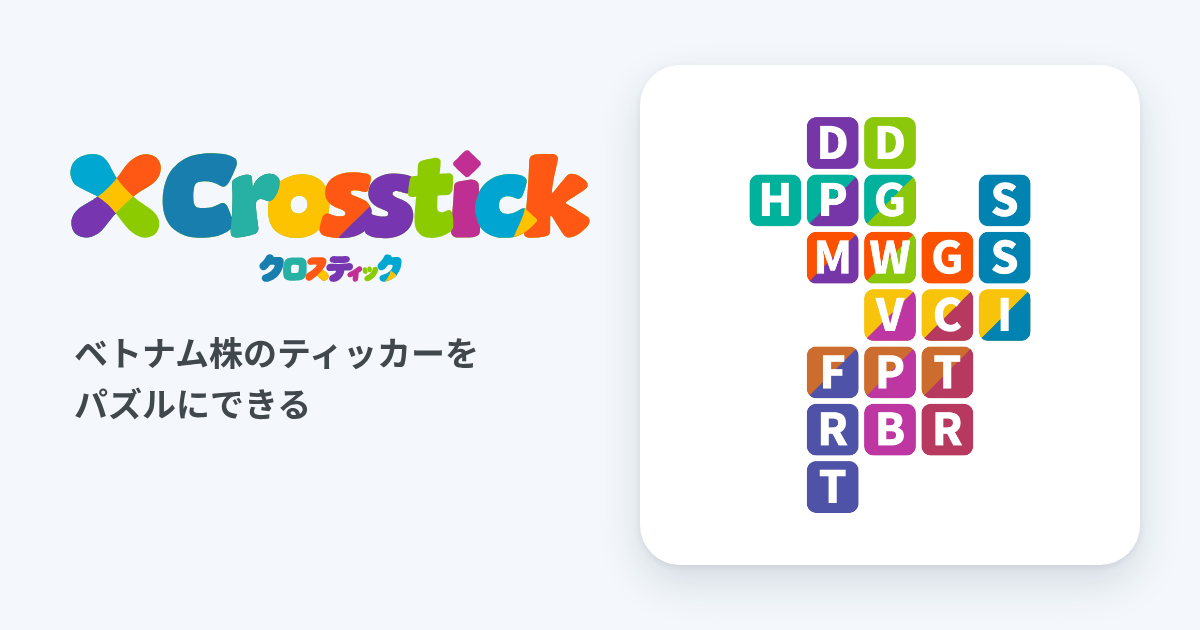
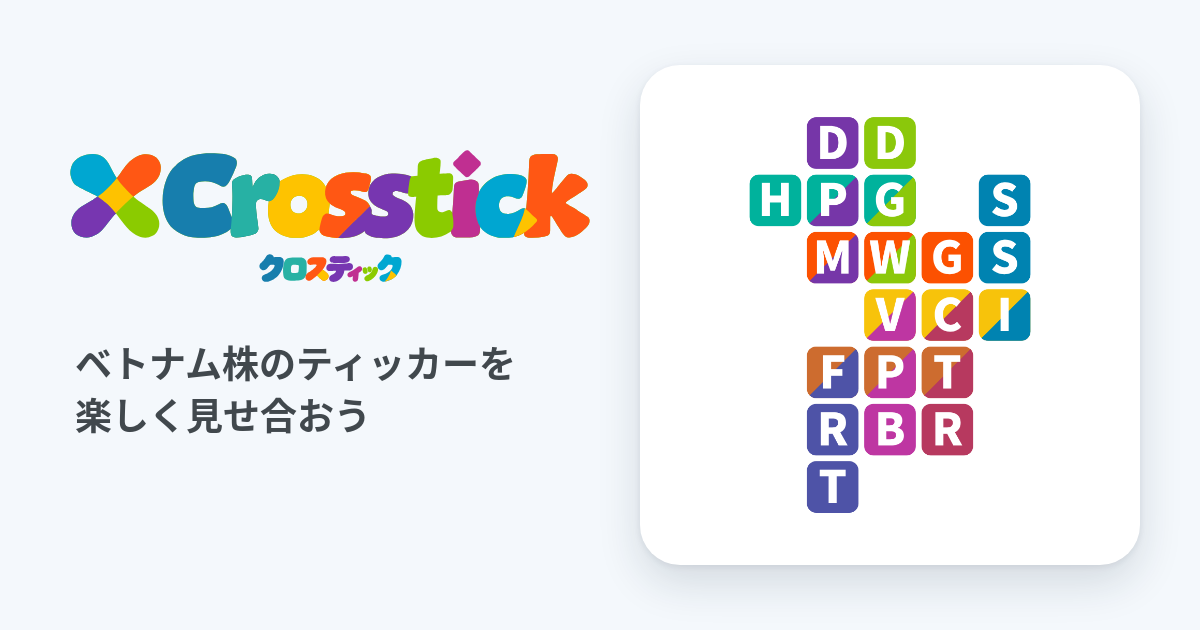
タグラインを「ベトナム株のティッカーを楽しく見せ合おう」に変更（3言語・og画像・文書）
Claude-Session: https://claude.ai/code/session_01PnqdWuW9AC89C8NV25zULK

Changed region(s): [[0.0617, 0.5429, 0.4317, 0.6937]]

diff --git a/dist/site/index.html b/dist/site/index.html
@@ -3,15 +3,15 @@
 <head>
 <meta charset="utf-8">
 <meta name="viewport" content="width=device-width, initial-scale=1, viewport-fit=cover">
-<title>Crosstick（クロスティック）｜ベトナム株のティッカーをパズルにできる</title>
-<meta name="description" content="ベトナム株（HOSE・HNX・UPCoM）のティッカーコードを、共通する文字で交差させてカラフルなパズルにするツール。重なりの多さで採点し、画像として保存できます。入力内容は端末の外へ送信しません。">
+<title>Crosstick（クロスティック）｜ベトナム株のティッカーを楽しく見せ合おう</title>
+<meta name="description" content="ベトナム株（HOSE・HNX・UPCoM）のティッカーコードを、共通する文字で交差させたカラフルな図にするツール。重なりの多さで点数も出て、画像として保存して友達と見せ合えます。入力内容は端末の外へ送信しません。">
 <meta name="color-scheme" content="light dark">
 <meta name="theme-color" content="#f4f8fc" media="(prefers-color-scheme: light)">
 <meta name="theme-color" content="#0d1215" media="(prefers-color-scheme: dark)">
 <meta property="og:type" content="website">
 <meta property="og:site_name" content="Crosstick">
-<meta property="og:title" content="Crosstick（クロスティック）｜ベトナム株のティッカーをパズルにできる">
-<meta property="og:description" content="ベトナム株（HOSE・HNX・UPCoM）のティッカーコードを、共通する文字で交差させてカラフルなパズルにするツール。重なりの多さで採点し、画像として保存できます。入力内容は端末の外へ送信しません。">
+<meta property="og:title" content="Crosstick（クロスティック）｜ベトナム株のティッカーを楽しく見せ合おう">
+<meta property="og:description" content="ベトナム株（HOSE・HNX・UPCoM）のティッカーコードを、共通する文字で交差させたカラフルな図にするツール。重なりの多さで点数も出て、画像として保存して友達と見せ合えます。入力内容は端末の外へ送信しません。">
 <meta property="og:url" content="https://crosstick.pages.dev/">
 <meta property="og:image" content="https://crosstick.pages.dev/og.png">
 <meta property="og:image:width" content="1200">
@@ -423,7 +423,7 @@ body.shoot:not(.score-on) .stage { inset: 16px 16px 90px; }
 <div class="app">
   <header>
     <h1 class="logo"><svg class="logo-svg" role="img" data-i-aria="logo" aria-label="Crosstick（クロスティック）"><use href="#cx-logo" width="100%" height="100%"/></svg></h1>
-    <p class="lead" data-i="lead">ベトナム株のティッカーをパズルにできる</p>
+    <p class="lead" data-i="lead">ベトナム株のティッカーを楽しく見せ合おう</p>
     <div class="hactions">
       <label class="btn btn-tonal langbtn">
         <svg viewBox="0 0 24 24" fill="none" stroke="currentColor" stroke-width="2.2" stroke-linecap="round" stroke-linejoin="round" aria-hidden="true"><circle cx="12" cy="12" r="9.5"/><path d="M2.5 12h19"/><path d="M12 2.5c2.6 2.6 4 5.9 4 9.5s-1.4 6.9-4 9.5c-2.6-2.6-4-5.9-4-9.5s1.4-6.9 4-9.5z"/></svg>
@@ -829,7 +829,7 @@ function buildLayout(words, pattern, clean) {
 var I18N = {
   ja: {
     logo: 'Crosstick（クロスティック）',
-    lead: 'ベトナム株のティッカーをパズルにできる',
+    lead: 'ベトナム株のティッカーを楽しく見せ合おう',
     rulesAria: '採点のしくみとプライバシー',
     saveImage: '画像を保存', saveShort: '保存',
     rulesTitle: '採点のしくみ',
@@ -847,7 +847,7 @@ var I18N = {
     tickersLabel: 'ティッカー（スペース、カンマ、改行で区切る）',
     placeholder: 'ティッカーを入力（例: SSI CTR VCI）',
     shuffle: '再配置', ratio: '比率', showScore: '点数を入れる',
-    empty: 'ティッカーを入力すると、ここにパズルができます。',
+    empty: 'ティッカーを入力すると、ここに図ができます。',
     across: '横', down: '縦', unplaced: '未配置', comma: '、',
     puzzleAria: 'Crosstick。', unit: '点',
     noScore: '共通する文字がないため、採点できません。',
@@ -861,7 +861,7 @@ var I18N = {
   },
   vi: {
     logo: 'Crosstick',
-    lead: 'Biến mã cổ phiếu Việt Nam thành trò chơi ô chữ',
+    lead: 'Cùng nhau khoe mã cổ phiếu Việt Nam thật vui',
     rulesAria: 'Cách tính điểm và quyền riêng tư',
     saveImage: 'Lưu hình ảnh', saveShort: 'Lưu',
     rulesTitle: 'Cách tính điểm',
@@ -879,7 +879,7 @@ var I18N = {
     tickersLabel: 'Mã cổ phiếu (cách nhau bằng dấu cách, dấu phẩy hoặc xuống dòng)',
     placeholder: 'Nhập mã cổ phiếu (ví dụ: SSI CTR VCI)',
     shuffle: 'Xếp lại', ratio: 'Tỉ lệ', showScore: 'Hiển thị điểm',
-    empty: 'Nhập mã cổ phiếu, ô chữ sẽ xuất hiện ở đây.',
+    empty: 'Nhập mã cổ phiếu, hình ghép sẽ xuất hiện ở đây.',
     across: 'Ngang', down: 'Dọc', unplaced: 'Chưa xếp', comma: ', ',
     puzzleAria: 'Crosstick. ', unit: 'điểm',
     noScore: 'Không có chữ cái chung nên không thể chấm điểm.',
@@ -893,7 +893,7 @@ var I18N = {
   },
   en: {
     logo: 'Crosstick',
-    lead: 'Turn Vietnamese stock tickers into a puzzle',
+    lead: 'Have fun showing off your Vietnamese stock tickers',
     rulesAria: 'Scoring and privacy',
     saveImage: 'Save image', saveShort: 'Save',
     rulesTitle: 'How scoring works',
@@ -911,7 +911,7 @@ var I18N = {
     tickersLabel: 'Tickers (separate with spaces, commas, or line breaks)',
     placeholder: 'Enter tickers (e.g. SSI CTR VCI)',
     shuffle: 'Reshuffle', ratio: 'Ratio', showScore: 'Include score',
-    empty: 'Enter tickers and your puzzle will appear here.',
+    empty: 'Enter tickers and your diagram will appear here.',
     across: 'Across', down: 'Down', unplaced: 'Unplaced', comma: ', ',
     puzzleAria: 'Crosstick. ', unit: 'pts',
     noScore: 'No shared letters, so it cannot be scored.',
@@ -1010,7 +1010,7 @@ YTC
   var reduced = window.matchMedia && window.matchMedia('(prefers-reduced-motion: reduce)').matches;
 
   /* 言語（日本語・ベトナム語・英語）。文言は i18n.js。選んだ言語は保存せず、URLの #ja / #vi / #en とブラウザの言語設定で決める */
-  var SITE_META = {"ja":{"title":"Crosstick（クロスティック）｜ベトナム株のティッカーをパズルにできる","description":"ベトナム株（HOSE・HNX・UPCoM）のティッカーコードを、共通する文字で交差させてカラフルなパズルにするツール。重なりの多さで採点し、画像として保存できます。入力内容は端末の外へ送信しません。"},"vi":{"title":"Crosstick | Biến mã cổ phiếu Việt Nam thành trò chơi ô chữ","description":"Công cụ ghép mã cổ phiếu Việt Nam (HOSE, HNX, UPCoM) thành ô chữ nhiều màu, giao nhau ở các chữ cái chung. Chấm điểm theo số chữ cái trùng nhau và lưu được thành hình ảnh. Nội dung bạn nhập không bị gửi ra khỏi thiết bị."},"en":{"title":"Crosstick | Turn Vietnamese stock tickers into a puzzle","description":"Cross Vietnamese stock tickers (HOSE, HNX, UPCoM) at their shared letters to make a colorful puzzle. It is scored by how much the tickers overlap, and you can save it as an image. Nothing you type leaves your device."}};
+  var SITE_META = {"ja":{"title":"Crosstick（クロスティック）｜ベトナム株のティッカーを楽しく見せ合おう","description":"ベトナム株（HOSE・HNX・UPCoM）のティッカーコードを、共通する文字で交差させたカラフルな図にするツール。重なりの多さで点数も出て、画像として保存して友達と見せ合えます。入力内容は端末の外へ送信しません。"},"vi":{"title":"Crosstick | Cùng nhau khoe mã cổ phiếu Việt Nam thật vui","description":"Công cụ ghép mã cổ phiếu Việt Nam (HOSE, HNX, UPCoM) thành hình nhiều màu, giao nhau ở các chữ cái chung. Có chấm điểm theo số chữ cái trùng nhau, và bạn có thể lưu thành hình ảnh để khoe với bạn bè. Nội dung bạn nhập không bị gửi ra khỏi thiết bị."},"en":{"title":"Crosstick | Have fun showing off your Vietnamese stock tickers","description":"Cross Vietnamese stock tickers (HOSE, HNX, UPCoM) at their shared letters to make a colorful diagram. It is scored by how much the tickers overlap, and you can save it as an image to show your friends. Nothing you type leaves your device."}};
   var lang = 'ja', hintInfo = { notVn: [], bad: [], over: false };
   var langSel = $('lang');
   var seo = !!document.querySelector('meta[name="description"]'); // Artifact版にはタイトル・説明のメタ情報が無い

diff --git a/dist/artifact.html b/dist/artifact.html
@@ -401,7 +401,7 @@ body.shoot:not(.score-on) .stage { inset: 16px 16px 90px; }
 <div class="app">
   <header>
     <h1 class="logo"><svg class="logo-svg" role="img" data-i-aria="logo" aria-label="Crosstick（クロスティック）"><use href="#cx-logo" width="100%" height="100%"/></svg></h1>
-    <p class="lead" data-i="lead">ベトナム株のティッカーをパズルにできる</p>
+    <p class="lead" data-i="lead">ベトナム株のティッカーを楽しく見せ合おう</p>
     <div class="hactions">
       <label class="btn btn-tonal langbtn">
         <svg viewBox="0 0 24 24" fill="none" stroke="currentColor" stroke-width="2.2" stroke-linecap="round" stroke-linejoin="round" aria-hidden="true"><circle cx="12" cy="12" r="9.5"/><path d="M2.5 12h19"/><path d="M12 2.5c2.6 2.6 4 5.9 4 9.5s-1.4 6.9-4 9.5c-2.6-2.6-4-5.9-4-9.5s1.4-6.9 4-9.5z"/></svg>
@@ -807,7 +807,7 @@ function buildLayout(words, pattern, clean) {
 var I18N = {
   ja: {
     logo: 'Crosstick（クロスティック）',
-    lead: 'ベトナム株のティッカーをパズルにできる',
+    lead: 'ベトナム株のティッカーを楽しく見せ合おう',
     rulesAria: '採点のしくみとプライバシー',
     saveImage: '画像を保存', saveShort: '保存',
     rulesTitle: '採点のしくみ',
@@ -825,7 +825,7 @@ var I18N = {
     tickersLabel: 'ティッカー（スペース、カンマ、改行で区切る）',
     placeholder: 'ティッカーを入力（例: SSI CTR VCI）',
     shuffle: '再配置', ratio: '比率', showScore: '点数を入れる',
-    empty: 'ティッカーを入力すると、ここにパズルができます。',
+    empty: 'ティッカーを入力すると、ここに図ができます。',
     across: '横', down: '縦', unplaced: '未配置', comma: '、',
     puzzleAria: 'Crosstick。', unit: '点',
     noScore: '共通する文字がないため、採点できません。',
@@ -839,7 +839,7 @@ var I18N = {
   },
   vi: {
     logo: 'Crosstick',
-    lead: 'Biến mã cổ phiếu Việt Nam thành trò chơi ô chữ',
+    lead: 'Cùng nhau khoe mã cổ phiếu Việt Nam thật vui',
     rulesAria: 'Cách tính điểm và quyền riêng tư',
     saveImage: 'Lưu hình ảnh', saveShort: 'Lưu',
     rulesTitle: 'Cách tính điểm',
@@ -857,7 +857,7 @@ var I18N = {
     tickersLabel: 'Mã cổ phiếu (cách nhau bằng dấu cách, dấu phẩy hoặc xuống dòng)',
     placeholder: 'Nhập mã cổ phiếu (ví dụ: SSI CTR VCI)',
     shuffle: 'Xếp lại', ratio: 'Tỉ lệ', showScore: 'Hiển thị điểm',
-    empty: 'Nhập mã cổ phiếu, ô chữ sẽ xuất hiện ở đây.',
+    empty: 'Nhập mã cổ phiếu, hình ghép sẽ xuất hiện ở đây.',
     across: 'Ngang', down: 'Dọc', unplaced: 'Chưa xếp', comma: ', ',
     puzzleAria: 'Crosstick. ', unit: 'điểm',
     noScore: 'Không có chữ cái chung nên không thể chấm điểm.',
@@ -871,7 +871,7 @@ var I18N = {
   },
   en: {
     logo: 'Crosstick',
-    lead: 'Turn Vietnamese stock tickers into a puzzle',
+    lead: 'Have fun showing off your Vietnamese stock tickers',
     rulesAria: 'Scoring and privacy',
     saveImage: 'Save image', saveShort: 'Save',
     rulesTitle: 'How scoring works',
@@ -889,7 +889,7 @@ var I18N = {
     tickersLabel: 'Tickers (separate with spaces, commas, or line breaks)',
     placeholder: 'Enter tickers (e.g. SSI CTR VCI)',
     shuffle: 'Reshuffle', ratio: 'Ratio', showScore: 'Include score',
-    empty: 'Enter tickers and your puzzle will appear here.',
+    empty: 'Enter tickers and your diagram will appear here.',
     across: 'Across', down: 'Down', unplaced: 'Unplaced', comma: ', ',
     puzzleAria: 'Crosstick. ', unit: 'pts',
     noScore: 'No shared letters, so it cannot be scored.',
@@ -988,7 +988,7 @@ YTC
   var reduced = window.matchMedia && window.matchMedia('(prefers-reduced-motion: reduce)').matches;
 
   /* 言語（日本語・ベトナム語・英語）。文言は i18n.js。選んだ言語は保存せず、URLの #ja / #vi / #en とブラウザの言語設定で決める */
-  var SITE_META = {"ja":{"title":"Crosstick（クロスティック）｜ベトナム株のティッカーをパズルにできる","description":"ベトナム株（HOSE・HNX・UPCoM）のティッカーコードを、共通する文字で交差させてカラフルなパズルにするツール。重なりの多さで採点し、画像として保存できます。入力内容は端末の外へ送信しません。"},"vi":{"title":"Crosstick | Biến mã cổ phiếu Việt Nam thành trò chơi ô chữ","description":"Công cụ ghép mã cổ phiếu Việt Nam (HOSE, HNX, UPCoM) thành ô chữ nhiều màu, giao nhau ở các chữ cái chung. Chấm điểm theo số chữ cái trùng nhau và lưu được thành hình ảnh. Nội dung bạn nhập không bị gửi ra khỏi thiết bị."},"en":{"title":"Crosstick | Turn Vietnamese stock tickers into a puzzle","description":"Cross Vietnamese stock tickers (HOSE, HNX, UPCoM) at their shared letters to make a colorful puzzle. It is scored by how much the tickers overlap, and you can save it as an image. Nothing you type leaves your device."}};
+  var SITE_META = {"ja":{"title":"Crosstick（クロスティック）｜ベトナム株のティッカーを楽しく見せ合おう","description":"ベトナム株（HOSE・HNX・UPCoM）のティッカーコードを、共通する文字で交差させたカラフルな図にするツール。重なりの多さで点数も出て、画像として保存して友達と見せ合えます。入力内容は端末の外へ送信しません。"},"vi":{"title":"Crosstick | Cùng nhau khoe mã cổ phiếu Việt Nam thật vui","description":"Công cụ ghép mã cổ phiếu Việt Nam (HOSE, HNX, UPCoM) thành hình nhiều màu, giao nhau ở các chữ cái chung. Có chấm điểm theo số chữ cái trùng nhau, và bạn có thể lưu thành hình ảnh để khoe với bạn bè. Nội dung bạn nhập không bị gửi ra khỏi thiết bị."},"en":{"title":"Crosstick | Have fun showing off your Vietnamese stock tickers","description":"Cross Vietnamese stock tickers (HOSE, HNX, UPCoM) at their shared letters to make a colorful diagram. It is scored by how much the tickers overlap, and you can save it as an image to show your friends. Nothing you type leaves your device."}};
   var lang = 'ja', hintInfo = { notVn: [], bad: [], over: false };
   var langSel = $('lang');
   var seo = !!document.querySelector('meta[name="description"]'); // Artifact版にはタイトル・説明のメタ情報が無い

diff --git a/src/i18n.js b/src/i18n.js
@@ -6,7 +6,7 @@
 var I18N = {
   ja: {
     logo: 'Crosstick（クロスティック）',
-    lead: 'ベトナム株のティッカーをパズルにできる',
+    lead: 'ベトナム株のティッカーを楽しく見せ合おう',
     rulesAria: '採点のしくみとプライバシー',
     saveImage: '画像を保存', saveShort: '保存',
     rulesTitle: '採点のしくみ',
@@ -24,7 +24,7 @@ var I18N = {
     tickersLabel: 'ティッカー（スペース、カンマ、改行で区切る）',
     placeholder: 'ティッカーを入力（例: SSI CTR VCI）',
     shuffle: '再配置', ratio: '比率', showScore: '点数を入れる',
-    empty: 'ティッカーを入力すると、ここにパズルができます。',
+    empty: 'ティッカーを入力すると、ここに図ができます。',
     across: '横', down: '縦', unplaced: '未配置', comma: '、',
     puzzleAria: 'Crosstick。', unit: '点',
     noScore: '共通する文字がないため、採点できません。',
@@ -38,7 +38,7 @@ var I18N = {
   },
   vi: {
     logo: 'Crosstick',
-    lead: 'Biến mã cổ phiếu Việt Nam thành trò chơi ô chữ',
+    lead: 'Cùng nhau khoe mã cổ phiếu Việt Nam thật vui',
     rulesAria: 'Cách tính điểm và quyền riêng tư',
     saveImage: 'Lưu hình ảnh', saveShort: 'Lưu',
     rulesTitle: 'Cách tính điểm',
@@ -56,7 +56,7 @@ var I18N = {
     tickersLabel: 'Mã cổ phiếu (cách nhau bằng dấu cách, dấu phẩy hoặc xuống dòng)',
     placeholder: 'Nhập mã cổ phiếu (ví dụ: SSI CTR VCI)',
     shuffle: 'Xếp lại', ratio: 'Tỉ lệ', showScore: 'Hiển thị điểm',
-    empty: 'Nhập mã cổ phiếu, ô chữ sẽ xuất hiện ở đây.',
+    empty: 'Nhập mã cổ phiếu, hình ghép sẽ xuất hiện ở đây.',
     across: 'Ngang', down: 'Dọc', unplaced: 'Chưa xếp', comma: ', ',
     puzzleAria: 'Crosstick. ', unit: 'điểm',
     noScore: 'Không có chữ cái chung nên không thể chấm điểm.',
@@ -70,7 +70,7 @@ var I18N = {
   },
   en: {
     logo: 'Crosstick',
-    lead: 'Turn Vietnamese stock tickers into a puzzle',
+    lead: 'Have fun showing off your Vietnamese stock tickers',
     rulesAria: 'Scoring and privacy',
     saveImage: 'Save image', saveShort: 'Save',
     rulesTitle: 'How scoring works',
@@ -88,7 +88,7 @@ var I18N = {
     tickersLabel: 'Tickers (separate with spaces, commas, or line breaks)',
     placeholder: 'Enter tickers (e.g. SSI CTR VCI)',
     shuffle: 'Reshuffle', ratio: 'Ratio', showScore: 'Include score',
-    empty: 'Enter tickers and your puzzle will appear here.',
+    empty: 'Enter tickers and your diagram will appear here.',
     across: 'Across', down: 'Down', unplaced: 'Unplaced', comma: ', ',
     puzzleAria: 'Crosstick. ', unit: 'pts',
     noScore: 'No shared letters, so it cannot be scored.',

diff --git a/src/body.html b/src/body.html
@@ -4,7 +4,7 @@
 <div class="app">
   <header>
     <h1 class="logo"><svg class="logo-svg" role="img" data-i-aria="logo" aria-label="Crosstick（クロスティック）"><use href="#cx-logo" width="100%" height="100%"/></svg></h1>
-    <p class="lead" data-i="lead">ベトナム株のティッカーをパズルにできる</p>
+    <p class="lead" data-i="lead">ベトナム株のティッカーを楽しく見せ合おう</p>
     <div class="hactions">
       <label class="btn btn-tonal langbtn">
         <svg viewBox="0 0 24 24" fill="none" stroke="currentColor" stroke-width="2.2" stroke-linecap="round" stroke-linejoin="round" aria-hidden="true"><circle cx="12" cy="12" r="9.5"/><path d="M2.5 12h19"/><path d="M12 2.5c2.6 2.6 4 5.9 4 9.5s-1.4 6.9-4 9.5c-2.6-2.6-4-5.9-4-9.5s1.4-6.9 4-9.5z"/></svg>

diff --git a/scripts/og-tagline.py b/scripts/og-tagline.py
@@ -1,0 +1,14 @@
+#!/usr/bin/env python3
+"""public/og.png のタグライン（左下の2行）だけを差し替える。 実行: python3 scripts/og-tagline.py "1行目" "2行目"
+ロゴと右の図は元の画像のまま。要 Pillow と Noto Sans CJK JP（Bold）。変更したら og.png を再公開する。"""
+import sys
+from PIL import Image, ImageDraw, ImageFont
+a, b = sys.argv[1], sys.argv[2]
+P = 'public/og.png'
+im = Image.open(P).convert('RGB')
+d = ImageDraw.Draw(im)
+d.rectangle((60, 320, 560, 450), fill=(244, 248, 252))          # 元のタグラインを背景色で消す
+f = ImageFont.truetype('/usr/share/fonts/opentype/noto/NotoSansCJK-Bold.ttc', 37, index=0)
+for i, t in enumerate((a, b)):
+    d.text((75, 335 + i * 52), t, font=f, fill=(65, 72, 77))
+im.save(P, optimize=True)

diff --git a/tests/e2e/run_all.py b/tests/e2e/run_all.py
@@ -19,7 +19,7 @@ tmp = pathlib.Path(tempfile.mkdtemp()) / 'page.html'
 tmp.write_text(SRC, encoding='utf8')
 URL = tmp.as_uri()
 SIZES = [(1280, 720), (1440, 900), (1024, 640), (390, 780), (390, 700), (360, 640)]
-LANGS = [('ja', '点', 'ベトナム株'), ('vi', 'điểm', 'Biến mã'), ('en', 'pts', 'Turn Vietnamese')]
+LANGS = [('ja', '点', 'ベトナム株'), ('vi', 'điểm', 'Cùng nhau khoe'), ('en', 'pts', 'Have fun showing off')]
 fails = []
 
 with sync_playwright() as p:

diff --git a/docs/SPEC.md b/docs/SPEC.md
@@ -3,7 +3,7 @@
 > **コードが正です。** 本書はコード（`src/`）から起こしたもので、旧仕様書との差異は [DISCREPANCIES.md](DISCREPANCIES.md) にあります。
 
 ## 目的
-ベトナム株のティッカーコードを、共通する文字で交差させたクロスワード風のパズルにし、画像として保存・共有できるようにする。
+ベトナム株のティッカーコードを、共通する文字で交差させたクロスワード風のカラフルな図にし、画像として保存・共有できるようにする。
 
 ## 入力
 - ティッカーは空白・カンマ・読点・セミコロン・スラッシュ・改行で区切る。全角は半角に、小文字は大文字にそろえ、重複は除く。
@@ -41,7 +41,7 @@
 - Claude 上では Claude のダウンロード機能で保存、それ以外のブラウザでは通常のダウンロードにフォールバック。
 
 ## 画面
-- ヘッダー左上にロゴ。タグライン「ベトナム株のティッカーをパズルにできる」。
+- ヘッダー左上にロゴ。タグライン「ベトナム株のティッカーを楽しく見せ合おう」。
 - PC（1024×640以上）・スマホ（360×640以上）で **ページ全体はスクロールしない**（右列の凡例のみ内部スクロール）。
 - ライト／ダーク自動切替。ルール説明のダイアログあり。言語選択はヘッダー右（ヘルプ・画像保存ボタンの左）。
 
@@ -61,7 +61,7 @@
 
 ## 入力の保持
 - 入力したティッカーの文字列だけを、このブラウザの `localStorage`（キー `crosstick:tickers`、最大600文字）に保存し、次に開いたとき入力欄に戻す。外へは送らない（CSP `connect-src 'none'` のまま）。
-- 保存のタイミング: 入力の300ms後（パズルの更新と同時）。入力欄を空にすると保存を消し、次回は初期の銘柄に戻る。
+- 保存のタイミング: 入力の300ms後（図の更新と同時）。入力欄を空にすると保存を消し、次回は初期の銘柄に戻る。
 - 保存するのは入力文字列のみ。結果・見た目の設定・言語・点数表示は保存しない。`localStorage` が使えない環境（プライベートモード等）では黙って保存をやめ、毎回初期の銘柄で始まる。
 - プライバシー文にこの保存と「空にすると消える」ことを書いてある（`src/i18n.js` の `privacy`、`src/body.html`）。
 

diff --git a/docs/CHANGELOG.md b/docs/CHANGELOG.md
@@ -9,6 +9,7 @@
 - ベトナム語・英語の文言は Claude による下訳（ネイティブ確認前）。
 - 重なる文字の色の選択肢「全部黒字」を「黒文字」に変更（ベトナム語 Chữ đen、英語 Black text）。
 - ルール説明ダイアログの「閉じる」ボタンを下に固定（文言が長く、内側がスクロールする画面でも見える）。
+- タグラインを「ベトナム株のティッカーを楽しく見せ合おう」に変更（「パズル」をやめた。ベトナム語 Cùng nhau khoe mã cổ phiếu Việt Nam thật vui、英語 Have fun showing off your Vietnamese stock tickers）。ページのタイトル・説明・空表示の文言・README・SPEC・共有用画像 og.png（`scripts/og-tagline.py` で差し替え）も合わせた。
 - 右の銘柄チップの枠線を削除し、塗りのみにした（選択中は青の塗り。「配置されない銘柄」の破線は薄く表示に変更）。
 - 入力欄を最初から2行ぶんの高さで固定し（3行以上は中でスクロール）、上端を再配置ボタンにそろえた。入力が増えても枠が動かない。
 - 入力中にスペースや入力途中の文字だけが変わったときは、盤面を描き直さない（ちらつき防止）。銘柄か配置パターンが変わったときだけ描き直す。

diff --git a/README.md b/README.md
@@ -1,6 +1,6 @@
 # Crosstick（クロスティック）
 
-ベトナム株のティッカーコード（HOSE・HNX・UPCoM の3文字コード）を、共通する文字で交差させて **クロスワード風のカラフルなパズル** にするWebツールです。重なりの多さを点数にし、1:1 / 16:9 / 9:16 の画像として保存できます。入力内容は端末の外へ送信されません。日本語・ベトナム語・英語に対応し、ヘッダーの地球儀ボタンで切り替えられます（`#ja` `#vi` `#en` をURLに付けても指定できます）。
+ベトナム株のティッカーコード（HOSE・HNX・UPCoM の3文字コード）を、共通する文字で交差させて **クロスワード風のカラフルな図** にして、友達と見せ合えるWebツールです。重なりの多さを点数にし、1:1 / 16:9 / 9:16 の画像として保存できます。入力内容は端末の外へ送信されません。日本語・ベトナム語・英語に対応し、ヘッダーの地球儀ボタンで切り替えられます（`#ja` `#vi` `#en` をURLに付けても指定できます）。
 
 - 公開サイト: https://crosstick.pages.dev/
 - Claude Artifact 版（非公開）: https://claude.ai/artifact/FYvFoHKYtEwchzahruowpY

diff --git a/docs/DEPLOY.md b/docs/DEPLOY.md
@@ -11,6 +11,9 @@
 ### GitHub連携にする場合（任意）
 Cloudflare Pages の「Git に接続」で本リポジトリを選び、ビルドコマンド `npm run build`、出力ディレクトリ `dist/site` に設定すると、push のたびに自動公開される。
 
+### 共有用画像 og.png のタグラインを変えるとき
+`python3 scripts/og-tagline.py "1行目" "2行目"`（要 Pillow）。`public/og.png` の左下の文字だけを差し替える。タイトルを変えたら `site.config.json` も直す。公開後、SNS側のOGPキャッシュが古い画像を出すことがある。
+
 ### URLを変えたら
 独自ドメインにしたときは `site.config.json` の `siteUrl` を直し（OGPの `og:url` / `og:image` に使われる）、再ビルド・再公開する。
 

diff --git a/CLAUDE.md b/CLAUDE.md
@@ -1,6 +1,6 @@
 # CLAUDE.md — Crosstick
 
-ベトナム株ティッカーのパズルツール。単一HTMLにビルドされる静的サイト。詳細は README.md と docs/。
+ベトナム株ティッカーを交差させた図にして見せ合うツール。単一HTMLにビルドされる静的サイト。詳細は README.md と docs/。
 
 ## 作業の基本
 - 変更は `src/`・`public/`・`site.config.json` に加え、`npm run build` → `npm test` を通す。`dist/` は生成物なので手で編集しない（ただしコミットには含める）。
